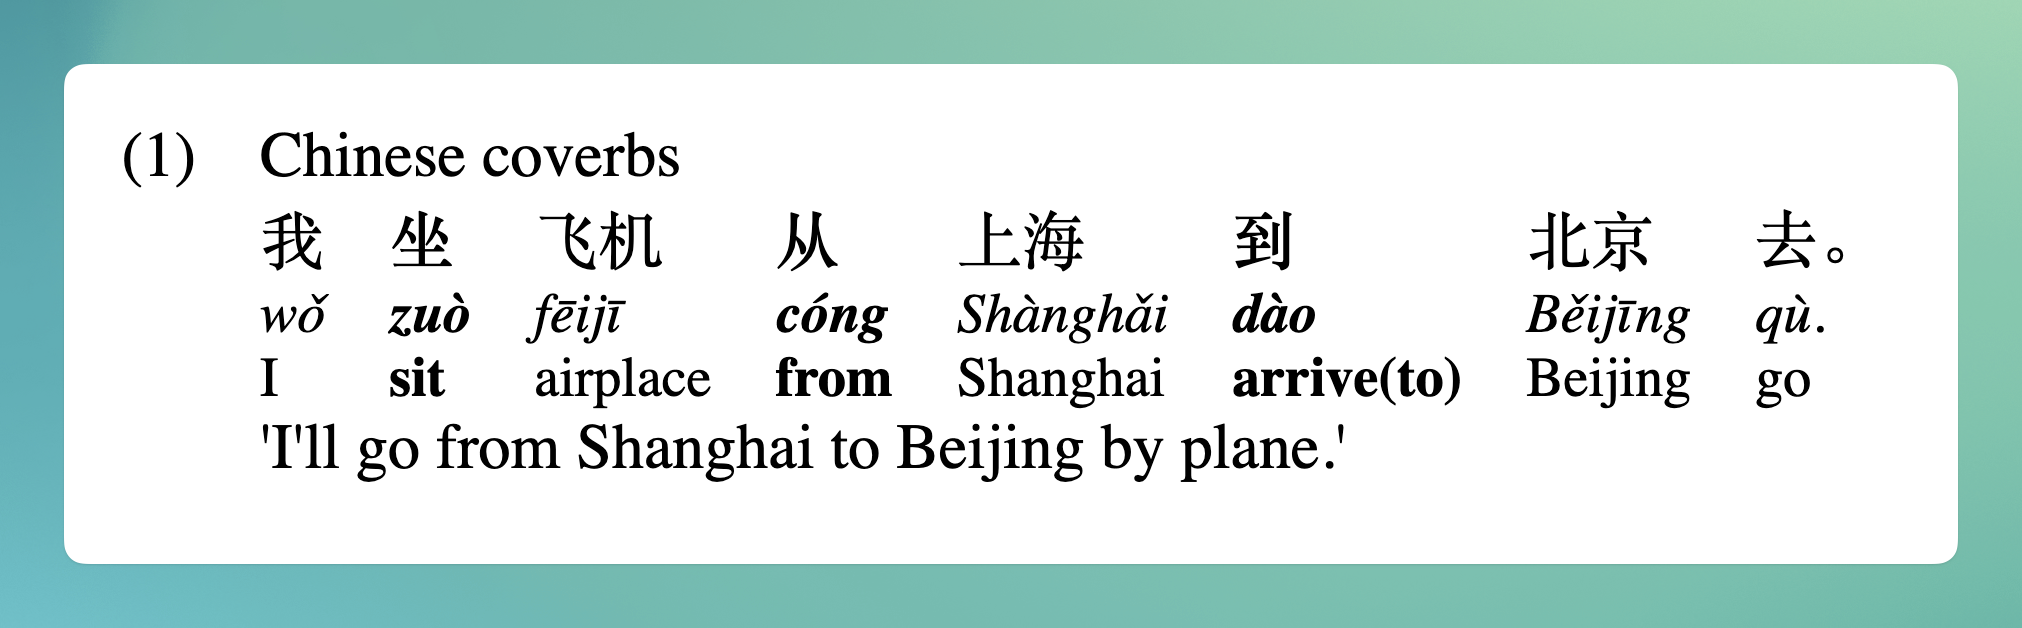
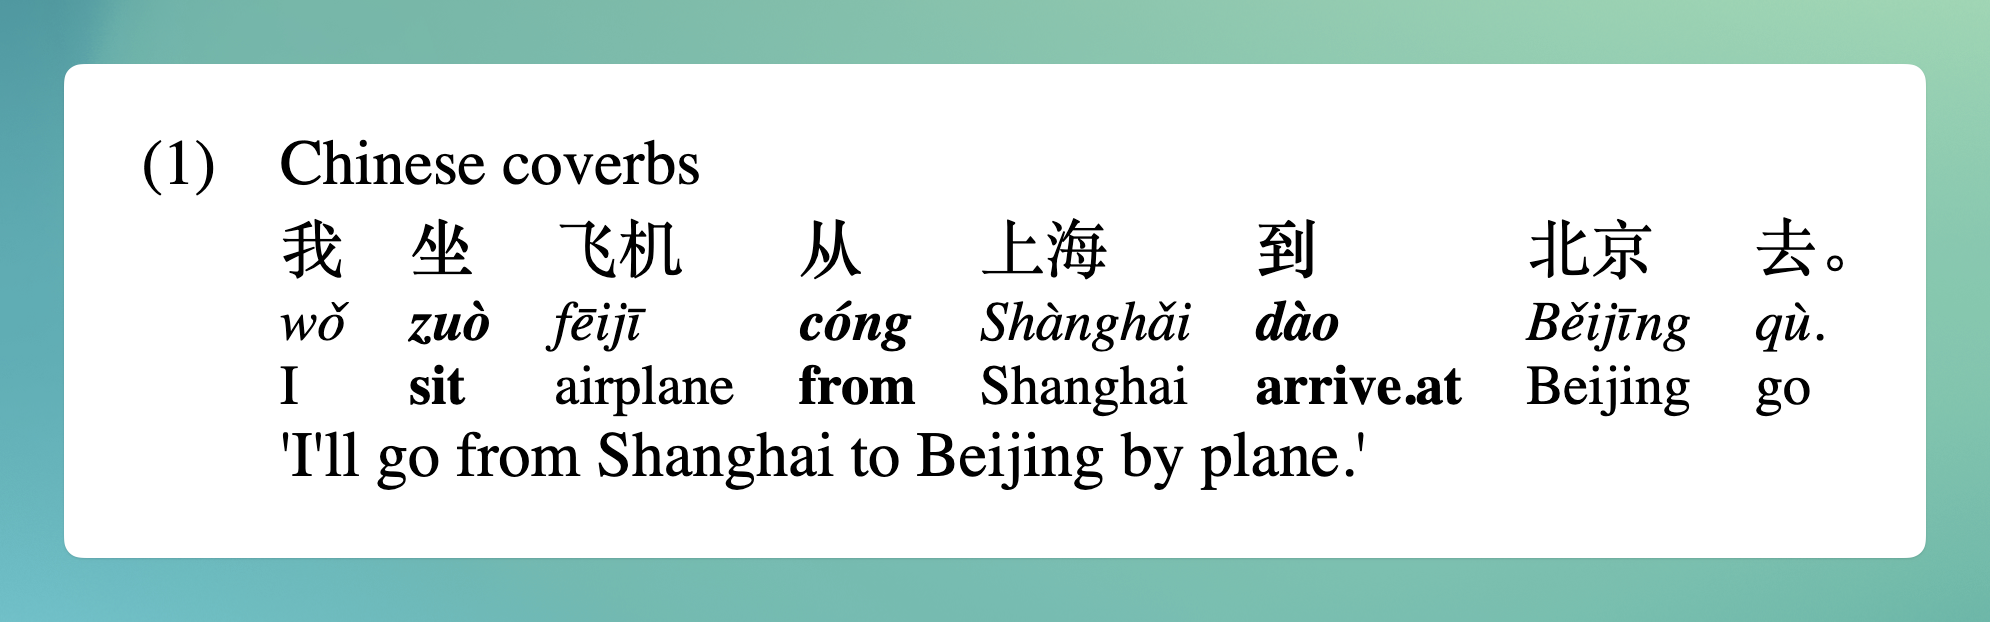
improve css docs

diff --git a/examples/chinese.html b/examples/chinese.html
@@ -32,7 +32,7 @@
           <ol class="gloss-column">
             <li class="gloss-word gloss-word-text">飞机</li>
             <li class="gloss-word gloss-word-transliteration">fēijī</li>
-            <li class="gloss-word gloss-word-gloss">airplace</li>
+            <li class="gloss-word gloss-word-gloss">airplane</li>
           </ol>
         </li>
         <li>
@@ -58,7 +58,7 @@
               <strong>dào</strong>
             </li>
             <li class="gloss-word gloss-word-gloss">
-              <strong>arrive(to)</strong>
+              <strong>arrive.at</strong>
             </li>
           </ol>
         </li>

diff --git a/README.md b/README.md
@@ -8,7 +8,7 @@
 | Chinese coverbs
 我 **坐** 飞机 **从** 上海 **到** 北京 去。
 / wǒ **zuò** fēijī **cóng** Shànghǎi **dào** Běijīng qù.
-= I **sit** airplace **from** Shanghai **arrive(to)** Beijing go
+= I **sit** airplane **from** Shanghai **arrive.at** Beijing go
 | 'I'll go from Shanghai to Beijing by plane.'
 :::
 ```
@@ -56,12 +56,11 @@ import remarkInterlinearGloss from "https://esm.sh/remark-interlinear-gloss@1";
 In browsers with [`esm.sh`][esmsh]:
 
 ```html
+<link rel="stylesheet" href="https://esm.sh/remark-interlinear-gloss@1/styles.css">
 <script type="module">
   import remarkInterlinearGloss from "https://esm.sh/remark-interlinear-gloss@1?bundle";
 </script>
 ```
-
-In the browser, use CSS or 
 
 ## Use
 
@@ -174,6 +173,12 @@ This package includes optional base styles. Import them in your project:
 import "remark-interlinear-gloss/styles.css";
 ```
 
+Or with [`esm.sh`][esmsh]:
+
+```html
+<link rel="stylesheet" href="https://esm.sh/remark-interlinear-gloss@1/styles.css" />
+```
+
 Or write your own styles targeting these classes:
 
 - `.gloss` — the outer `<figure>`
@@ -192,7 +197,7 @@ This package exports no identifiers. The default export is `remarkInterlinearGlo
 
 ### `unified().use(remarkDirective).use(remarkInterlinearGloss)`
 
-Add support for interlinear glossing. [`remark-directive`](remark-directive) must be used before `remark-interlinear-gloss`.
+Add support for interlinear glossing. [`remark-directive`][remark-directive] must be used before `remark-interlinear-gloss`.
 
 <!-- omit in toc -->
 ###### Returns

diff --git a/examples/chinese.md b/examples/chinese.md
@@ -2,6 +2,6 @@
 | Chinese coverbs
 我 **坐** 飞机 **从** 上海 **到** 北京 去。
 / wǒ **zuò** fēijī **cóng** Shànghǎi **dào** Běijīng qù.
-= I **sit** airplace **from** Shanghai **arrive(to)** Beijing go
+= I **sit** airplane **from** Shanghai **arrive.at** Beijing go
 | 'I'll go from Shanghai to Beijing by plane.'
 :::
